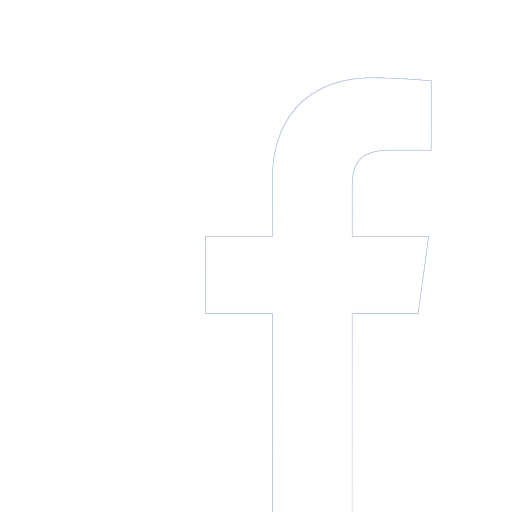
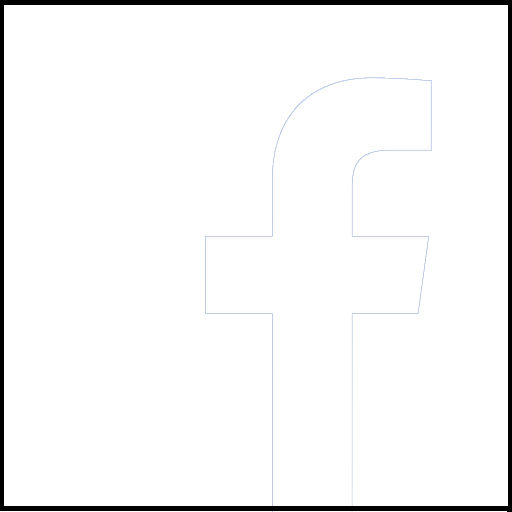
Removed unity player stuff since we don't need it anymore

Changed region(s): [[0.0, 0.0, 1.0, 1.0]]

diff --git a/_includes/navbar.html b/_includes/navbar.html
@@ -24,7 +24,7 @@
 
             <ul class="nav navbar-nav navbar-right">
                 <li><a href="https://discord.gg/DhT3XgU"><img class="icon-image" src="{{site.baseurl}}/static/images/discord-official.png" width=512 height=512 alt="discord"></a></li>
-                <li><a href="https://www.facebook.com/gudevsoc/"><img class="icon-image" src="{{site.baseurl}}/static/images/facebook-official1.png" width=512 height=512 alt="fb"></a></li>
+                <li><a href="https://www.facebook.com/gudevsoc/"><img class="icon-image" src="{{site.baseurl}}/static/images/facebook-official.png" width=512 height=512 alt="fb"></a></li>
             </ul>
         </div>
     </div>
